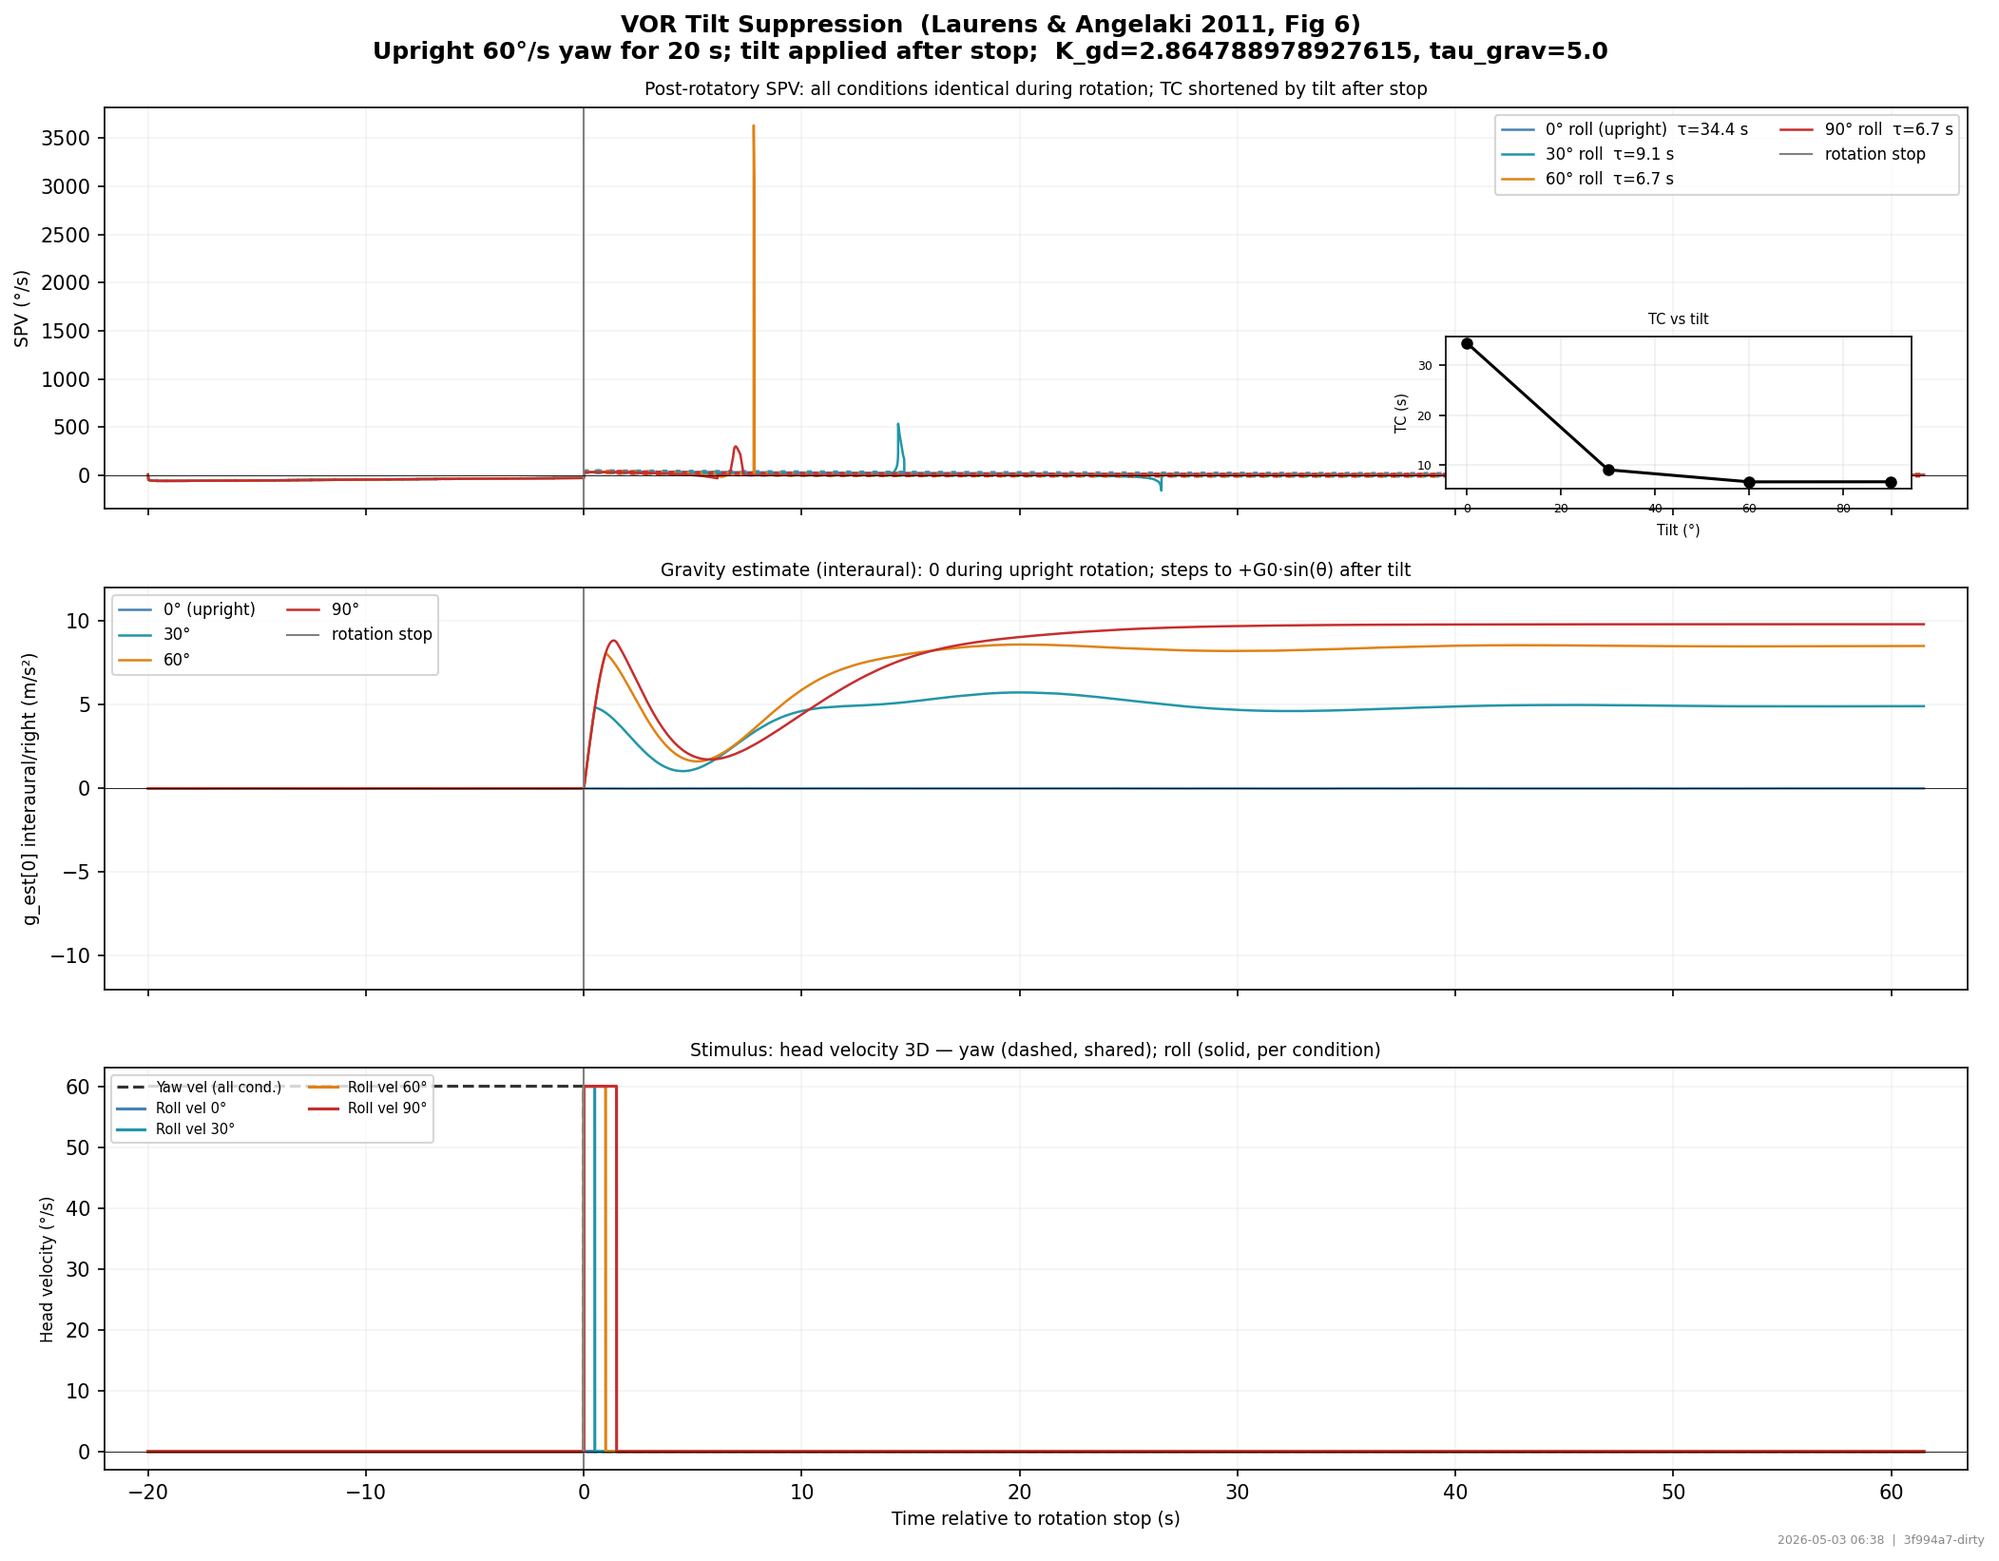
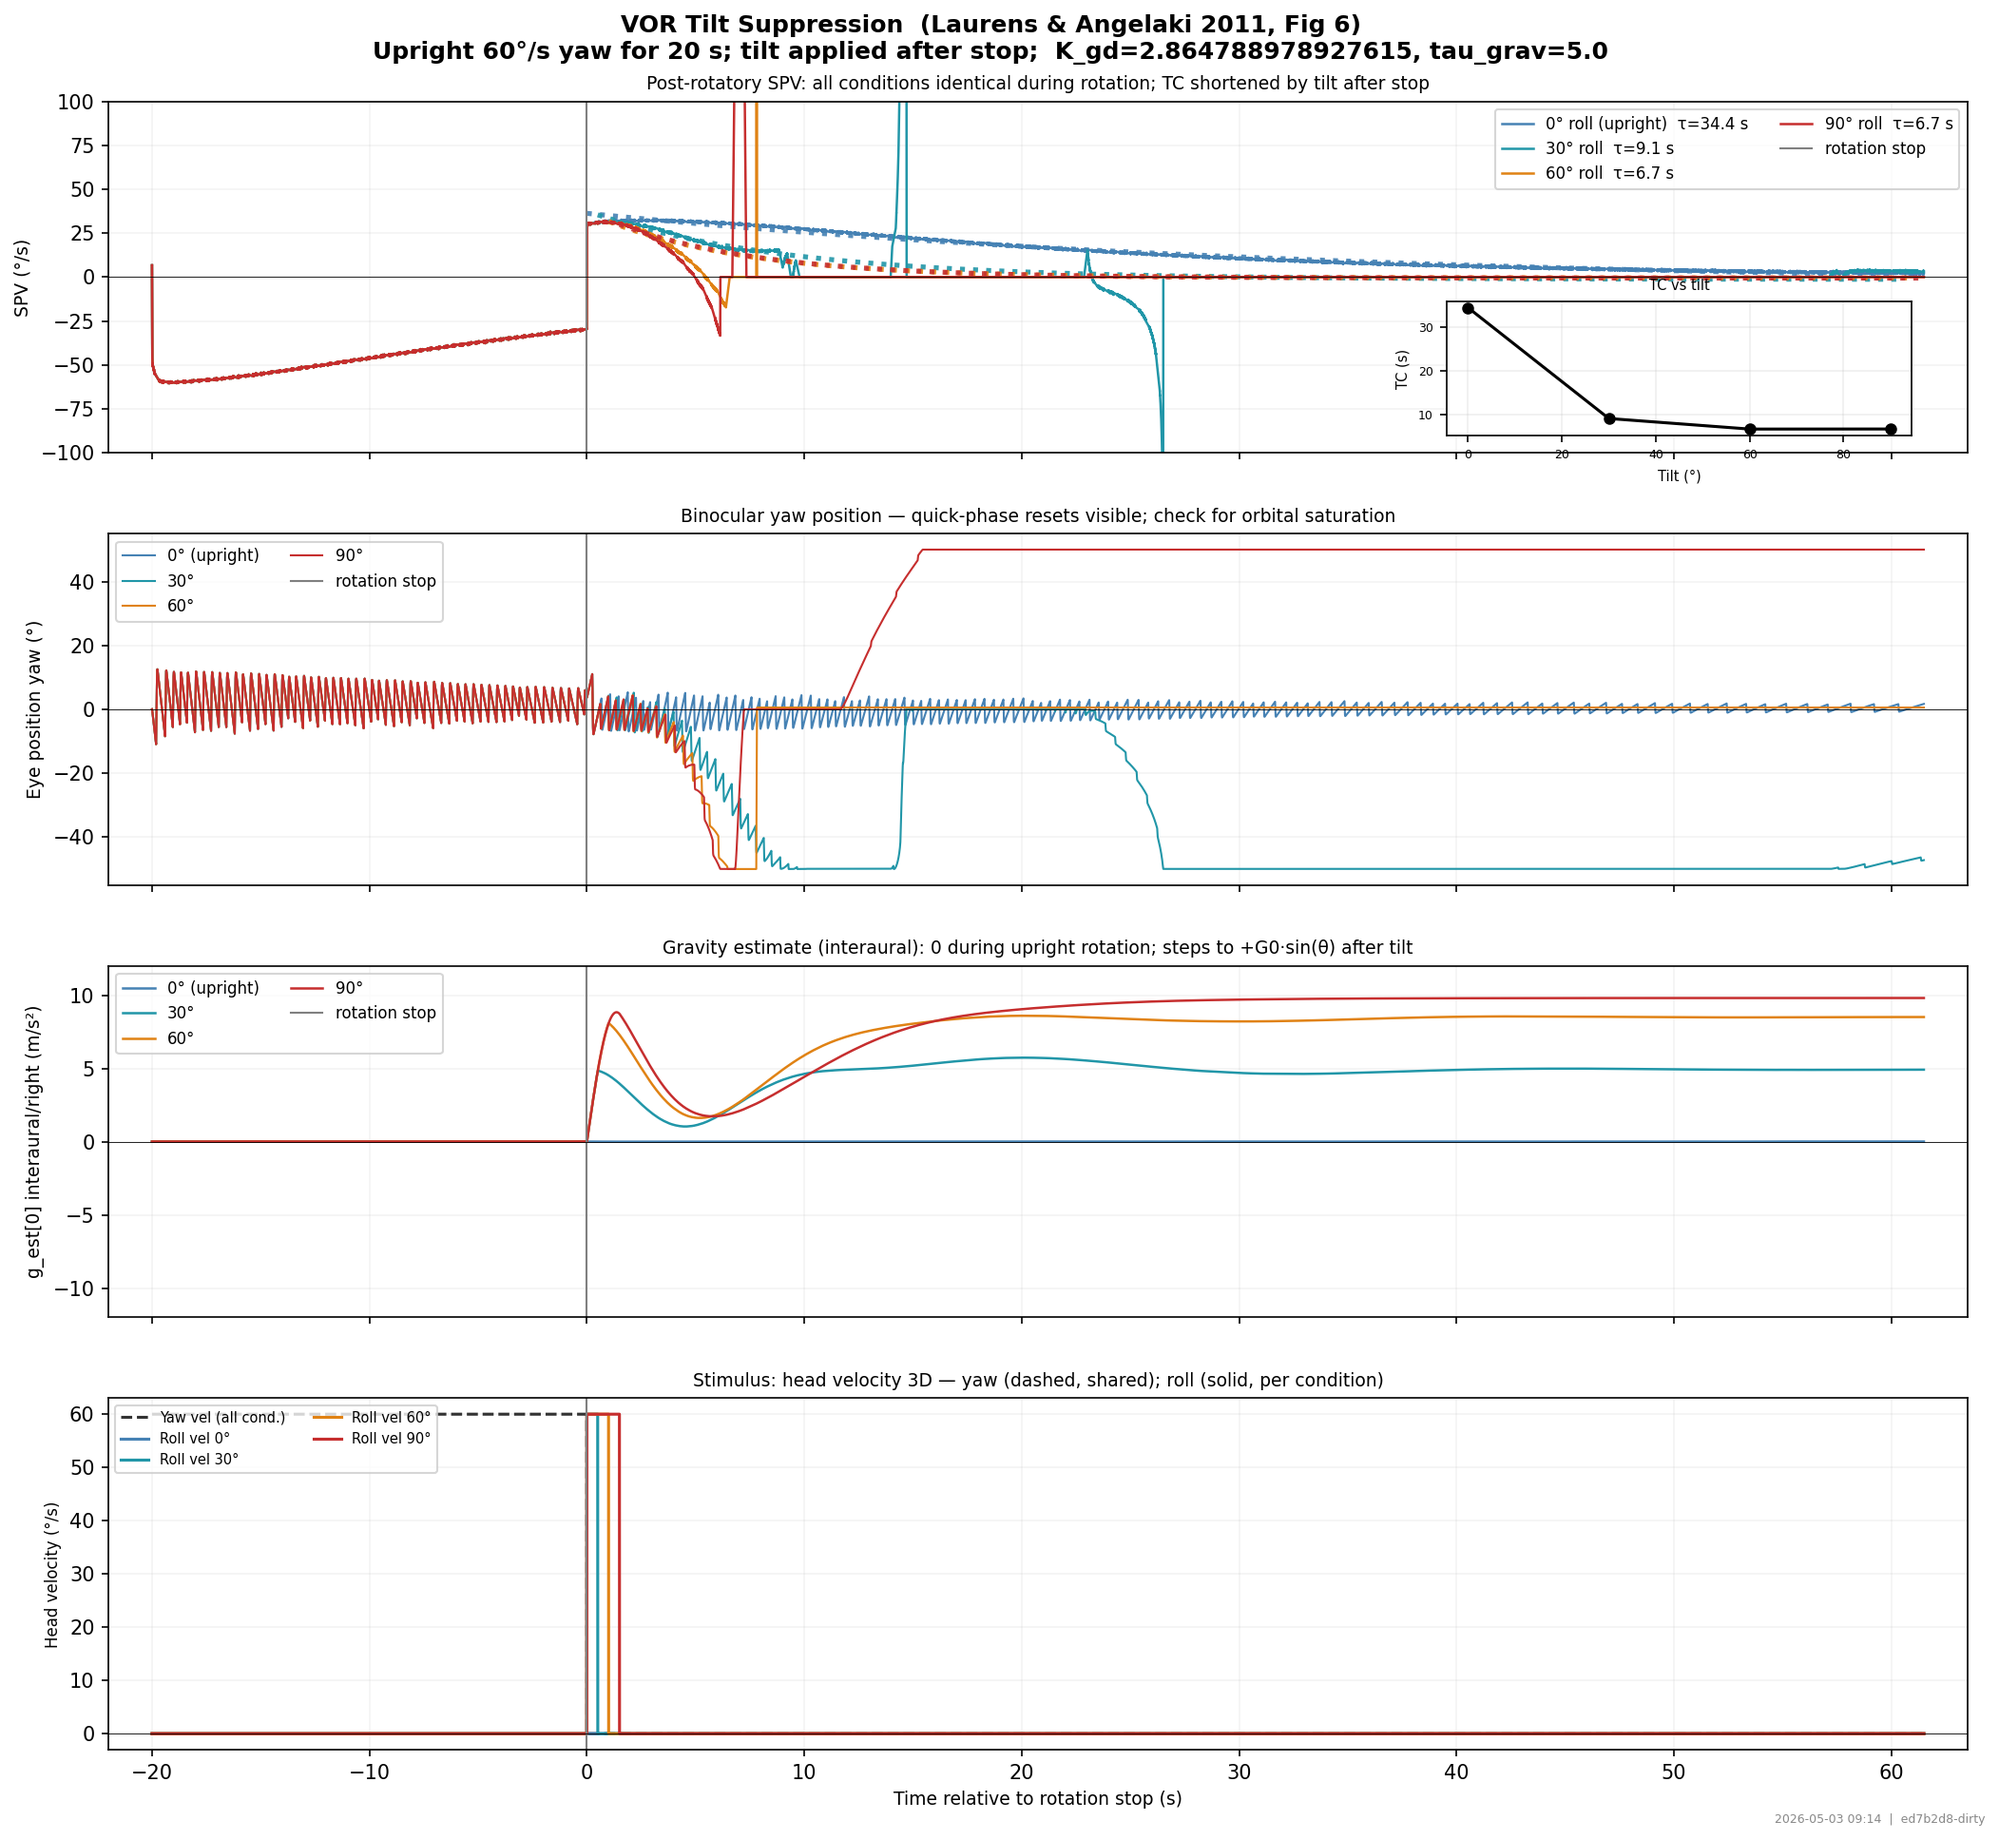
tilt suppression has issues

diff --git a/scripts/bench_gravity.py b/scripts/bench_gravity.py
@@ -377,7 +377,7 @@ def _tilt_suppression(show):
     cfg    = SimConfig(warmup_s=0.0)
     colors = ['steelblue', '#2196a8', '#e08214', '#c62e2e']
 
-    fig, axes = plt.subplots(3, 1, figsize=(14, 11), sharex=True)
+    fig, axes = plt.subplots(4, 1, figsize=(14, 13), sharex=True)
     fig.suptitle(
         f'VOR Tilt Suppression  (Laurens & Angelaki 2011, Fig 6)\n'
         f'Upright {ROT_VEL:.0f}°/s yaw for {ROT_T:.0f} s; tilt applied after stop;  '
@@ -419,21 +419,22 @@ def _tilt_suppression(show):
         lbl = f'{tilt_deg:.0f}° roll{upright_sfx}' + (f'  τ={tau:.1f} s' if tau else '')
 
         axes[0].plot(t_rel, spv,     color=col, lw=1.2, label=lbl)
-        axes[1].plot(t_rel, g_est_y, color=col, lw=1.2, label=f'{tilt_deg:.0f}°{upright_sfx}')
+        axes[1].plot(t_rel, eye_pos, color=col, lw=1.0, label=f'{tilt_deg:.0f}°{upright_sfx}')
+        axes[2].plot(t_rel, g_est_y, color=col, lw=1.2, label=f'{tilt_deg:.0f}°{upright_sfx}')
         if t_fit is not None:
             axes[0].plot(t_fit, y_fit, color=col, lw=2.5, ls=':', alpha=0.9)
 
         # Stimulus panel: 3D head velocity — yaw (shared) and roll (per condition)
         if ci == 0:
-            axes[2].plot(t_rel, hv_yaw_base, color='#333333', lw=1.5, ls='--',
+            axes[3].plot(t_rel, hv_yaw_base, color='#333333', lw=1.5, ls='--',
                          label='Yaw vel (all cond.)')
-        axes[2].plot(t_rel, hv_roll, color=col, lw=1.5, ls='-',
+        axes[3].plot(t_rel, hv_roll, color=col, lw=1.5, ls='-',
                      label=f'Roll vel {tilt_deg:.0f}°')
 
-    axes[2].set_ylabel('Head velocity (°/s)', fontsize=8)
-    axes[2].set_title('Stimulus: head velocity 3D — yaw (dashed, shared); roll (solid, per condition)',
+    axes[3].set_ylabel('Head velocity (°/s)', fontsize=8)
+    axes[3].set_title('Stimulus: head velocity 3D — yaw (dashed, shared); roll (solid, per condition)',
                       fontsize=9)
-    axes[2].legend(fontsize=7, ncol=2, loc='upper left')
+    axes[3].legend(fontsize=7, ncol=2, loc='upper left')
 
     xlim = (-ROT_T - 2.0, max_tilt_dur + COAST_T + 2.0)
     for ax in axes:
@@ -443,16 +444,22 @@ def _tilt_suppression(show):
         ax.grid(True, alpha=0.15)
 
     axes[0].set_ylabel('SPV (°/s)', fontsize=9); axes[0].legend(fontsize=8, ncol=2)
+    axes[0].set_ylim(-100, 100)
     axes[0].set_title('Post-rotatory SPV: all conditions identical during rotation; '
                       'TC shortened by tilt after stop', fontsize=9)
 
-    axes[1].set_ylabel('g_est[0] interaural/right (m/s²)', fontsize=9)
+    axes[1].set_ylabel('Eye position yaw (°)', fontsize=9)
     axes[1].legend(fontsize=8, ncol=2)
-    axes[1].set_ylim(-12, 12)
-    axes[1].set_title('Gravity estimate (interaural): 0 during upright rotation; '
+    axes[1].set_title('Binocular yaw position — quick-phase resets visible; check for orbital saturation',
+                      fontsize=9)
+
+    axes[2].set_ylabel('g_est[0] interaural/right (m/s²)', fontsize=9)
+    axes[2].legend(fontsize=8, ncol=2)
+    axes[2].set_ylim(-12, 12)
+    axes[2].set_title('Gravity estimate (interaural): 0 during upright rotation; '
                       'steps to +G0·sin(θ) after tilt', fontsize=9)
 
-    axes[2].set_xlabel('Time relative to rotation stop (s)', fontsize=9)
+    axes[3].set_xlabel('Time relative to rotation stop (s)', fontsize=9)
 
     # Inset: TC vs tilt — bottom-right to avoid overlap with data and legend
     ax_ins = axes[0].inset_axes([0.72, 0.05, 0.25, 0.38])
